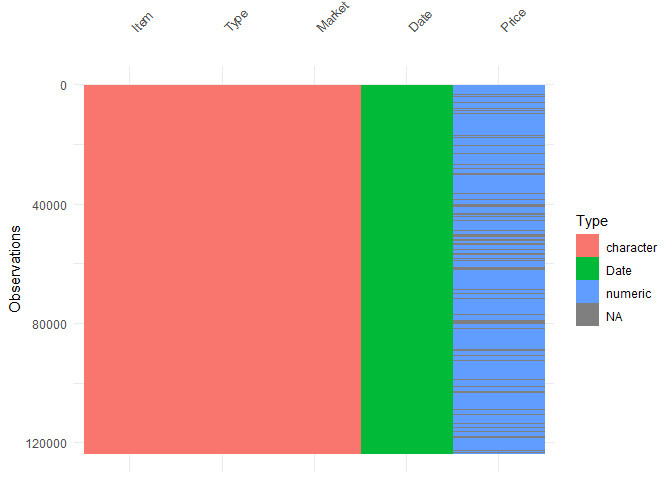
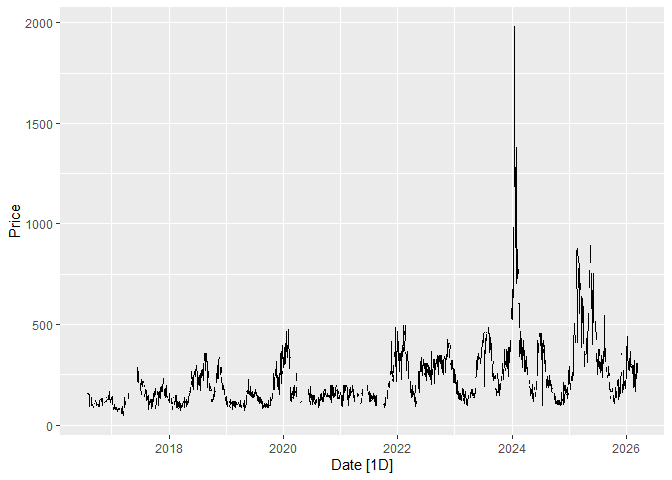
updated

diff --git a/README.md b/README.md
@@ -1,7 +1,9 @@
 
 <!-- README.md is generated from README.Rmd. Please edit that file -->
 
-# vegetablesSriLanka <img src="logo/vegetableSriLanka_hex.png" align="right" height="200"/>
+# vegetablesSriLanka
+
+<!--<img src="logo/vegetableSriLanka_hex.png" align="right" height="200"/>-->
 
 ## Installation
 
@@ -17,100 +19,92 @@ pak::pak("thiyangt/vegetablesSriLanka")
 
 ``` r
 library(vegetablesSriLanka)
+#> Registered S3 method overwritten by 'tsibble':
+#>   method               from 
+#>   as_tibble.grouped_df dplyr
 data("vegetables.srilanka")
 head(vegetables.srilanka)
-#>         Date            Item      Type   Market Price
-#> 1 2016-08-01           Beans    Retail Dambulla   165
-#> 2 2016-08-01           Beans    Retail   Pettah   160
-#> 3 2016-08-01           Beans Wholesale Dambulla   130
-#> 4 2016-08-01           Beans Wholesale   Pettah   140
-#> 5 2016-08-01 Big Onion (Imp)    Retail Dambulla    80
-#> 6 2016-08-01 Big Onion (Imp)    Retail   Pettah    80
+#> # A tibble: 6 × 5
+#>   Date       Item  Type   Market   Price
+#>   <date>     <chr> <chr>  <chr>    <dbl>
+#> 1 2016-08-01 Beans Retail Dambulla   165
+#> 2 2016-08-02 Beans Retail Dambulla   190
+#> 3 2016-08-03 Beans Retail Dambulla   190
+#> 4 2016-08-04 Beans Retail Dambulla   190
+#> 5 2016-08-05 Beans Retail Dambulla   190
+#> 6 2016-08-08 Beans Retail Dambulla   190
 tail(vegetables.srilanka)
-#>              Date        Item      Type   Market Price
-#> 123787 2026-01-23 Snake gourd Wholesale Dambulla   200
-#> 123788 2026-01-23 Snake gourd Wholesale   Pettah   200
-#> 123789 2026-01-23      Tomato    Retail Dambulla   420
-#> 123790 2026-01-23      Tomato    Retail   Pettah   350
-#> 123791 2026-01-23      Tomato Wholesale Dambulla   390
-#> 123792 2026-01-23      Tomato Wholesale   Pettah   300
+#> # A tibble: 6 × 5
+#>   Date       Item   Type      Market Price
+#>   <date>     <chr>  <chr>     <chr>  <dbl>
+#> 1 2026-03-03 Tomato Wholesale Pettah   120
+#> 2 2026-03-04 Tomato Wholesale Pettah   120
+#> 3 2026-03-05 Tomato Wholesale Pettah    80
+#> 4 2026-03-06 Tomato Wholesale Pettah    90
+#> 5 2026-03-09 Tomato Wholesale Pettah   120
+#> 6 2026-03-10 Tomato Wholesale Pettah   120
 ```
 
-## Data Quality Analysis
+## Example
+
+## Fill missing gaps
 
 ``` r
-library(visdat)
-library(naniar)
-library(tidyverse)
+filled <- fillgaps_vegetable_prices(
+   data = vegetables.srilanka,
+   item = "Carrot",
+   market = "Dambulla",
+   type = "Retail"
+ )
+filled
+#> # A tsibble: 3,509 x 5 [1D]
+#>    Date       Item   Type   Market   Price
+#>    <date>     <chr>  <chr>  <chr>    <dbl>
+#>  1 2016-08-01 Carrot Retail Dambulla   155
+#>  2 2016-08-02 Carrot Retail Dambulla   155
+#>  3 2016-08-03 Carrot Retail Dambulla   150
+#>  4 2016-08-04 Carrot Retail Dambulla   145
+#>  5 2016-08-05 Carrot Retail Dambulla   145
+#>  6 2016-08-06 <NA>   <NA>   <NA>        NA
+#>  7 2016-08-07 <NA>   <NA>   <NA>        NA
+#>  8 2016-08-08 Carrot Retail Dambulla   125
+#>  9 2016-08-09 Carrot Retail Dambulla   135
+#> 10 2016-08-10 Carrot Retail Dambulla   150
+#> # ℹ 3,499 more rows
 ```
 
-### Information about the class of the data input
+## Plot data
 
 ``` r
-vis_dat(vegetables.srilanka)
+plot_vegetable_prices(
+   data = vegetables.srilanka,
+   item = "Carrot",
+   market = "Dambulla",
+   type = "Retail"
+ )
 ```
 
 <img src="man/figures/README-unnamed-chunk-3-1.png" alt="" width="100%" />
 
-### Amount of missings in each columns
+## Data Quality Analysis
 
 ``` r
-vis_miss(vegetables.srilanka)
+visualize_missingness(
+  data = vegetables.srilanka,
+  group_var = "Item",
+  target_var = "Price"
+ )
+#> $data_structure
 ```
 
 <img src="man/figures/README-unnamed-chunk-4-1.png" alt="" width="100%" />
 
-### Visualise item-wise missing percentage
+    #> 
+    #> $missing_map
 
-``` r
-vs1 <- vegetables.srilanka |>
-  filter(!is.na(Item)) 
-gg_miss_fct(vs1, Item)
-```
+<img src="man/figures/README-unnamed-chunk-4-2.png" alt="" width="100%" />
 
-<img src="man/figures/README-unnamed-chunk-5-1.png" alt="" width="100%" />
+    #> 
+    #> $missing_by_group
 
-``` r
-vs <- vegetables.srilanka |>
-  filter(!is.na(Item)) |>
-  select(Item, Price)
-# Calculate item-wise missing percentage
-missing_summary <- vs |>
-  group_by(Item) |>
-  summarise(
-    missing_pct = mean(!complete.cases(across())) * 100
-  )
-#> Warning: There were 15 warnings in `summarise()`.
-#> The first warning was:
-#> ℹ In argument: `missing_pct = mean(!complete.cases(across())) * 100`.
-#> ℹ In group 1: `Item = "Beans"`.
-#> Caused by warning:
-#> ! Using `across()` without supplying `.cols` was deprecated in dplyr 1.1.0.
-#> ℹ Please supply `.cols` instead.
-#> ℹ Run `dplyr::last_dplyr_warnings()` to see the 14 remaining warnings.
-
-ggplot(missing_summary, aes(x = reorder(Item, -missing_pct), y = missing_pct)) +
-  geom_bar(stat = "identity", fill = "steelblue") +
-  labs(
-    title = "Item-wise Missing Data Percentage",
-    x = "Item",
-    y = "Missing Percentage (%)"
-  ) +
-  theme_minimal() +
-  theme(axis.text.x = element_text(angle = 45, hjust = 1))
-```
-
-<img src="man/figures/README-unnamed-chunk-6-1.png" alt="" width="100%" />
-
-## Example
-
-``` r
-vegetables.srilanka |>
-  filter(Item == "Pumpkin") |>
-  filter(Type == "Retail") |>
-  filter(Market == "Dambulla") |>
-  ggplot(aes(x=Date, y=Price)) + 
-  geom_line()
-```
-
-<img src="man/figures/README-unnamed-chunk-7-1.png" alt="" width="100%" />
+<img src="man/figures/README-unnamed-chunk-4-3.png" alt="" width="100%" />